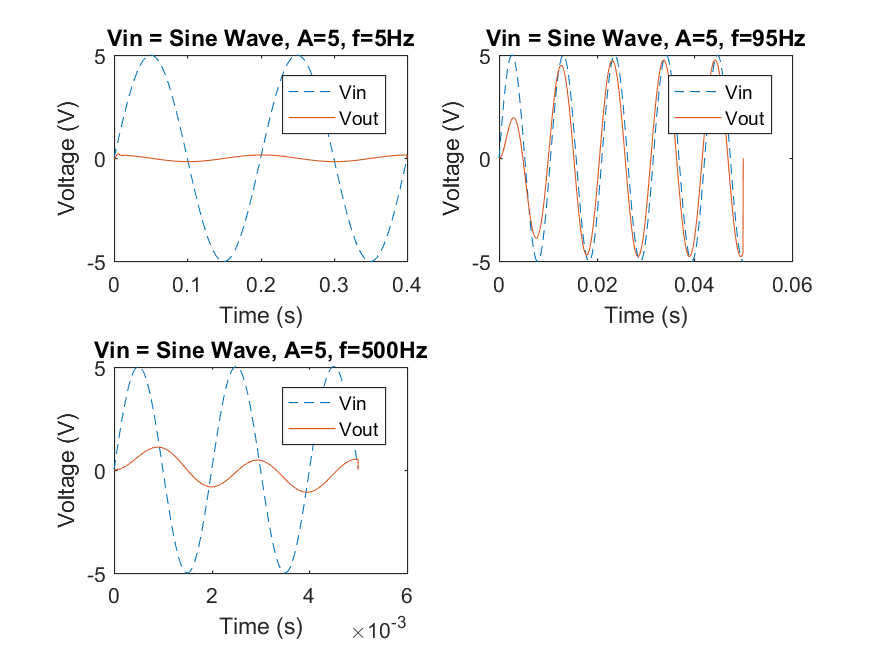
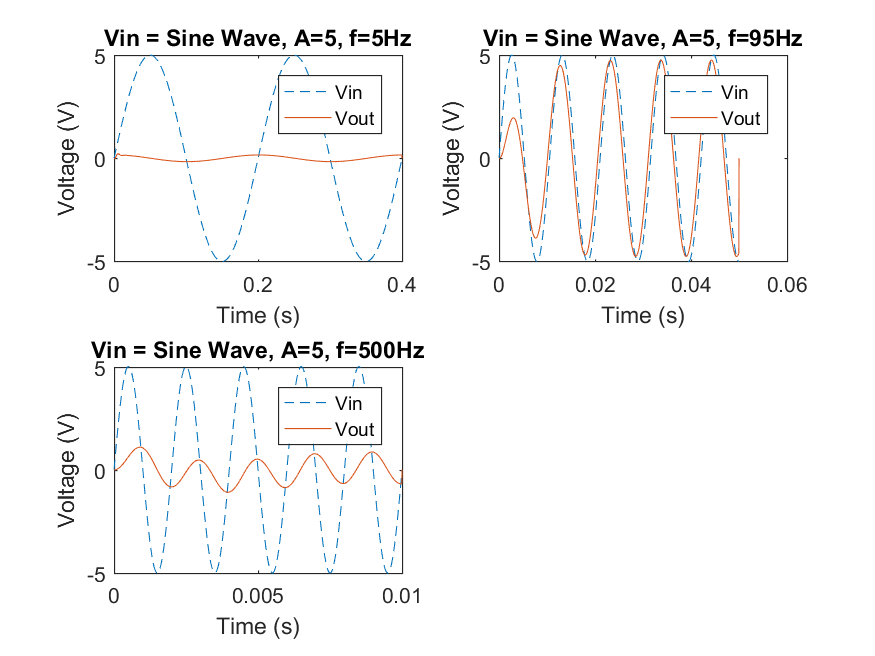
Fixed ex3 code and plots.

diff --git a/ex3/RLC_script.m b/ex3/RLC_script.m
@@ -50,7 +50,7 @@ qa = zeros(size(ta));
 vout = zeros(size(ta));
 ia(1) = i0;
 qa(1) = q0;
-tau = 3e-6; %DONT FORGET TO CHECK THIS
+tau = 3e-6;
 vf = @(t) 5*exp(-t^2/tau);
 for n=1:N
     [qa(n+1), ia(n+1)] = RK4second(h,L,R,C,qa(n),ia(n),ta(n),vf);
@@ -216,7 +216,7 @@ ylabel('Voltage (V)')
 % f = 500Hz
 name = 'Vin = Sine Wave, A=5, f=500Hz';
 t0 = 0;
-tf = 0.005;
+tf = 0.010;
 h = (tf-t0)/N;
 ta = t0:h:tf;
 subplot(2,2,3);
